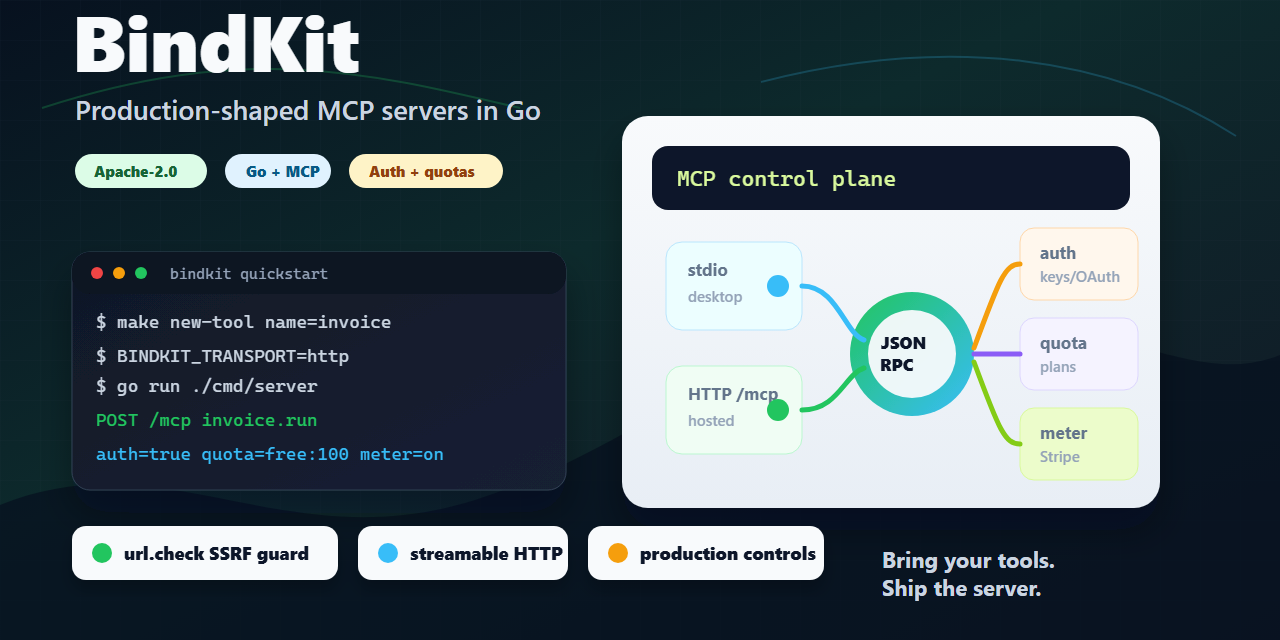
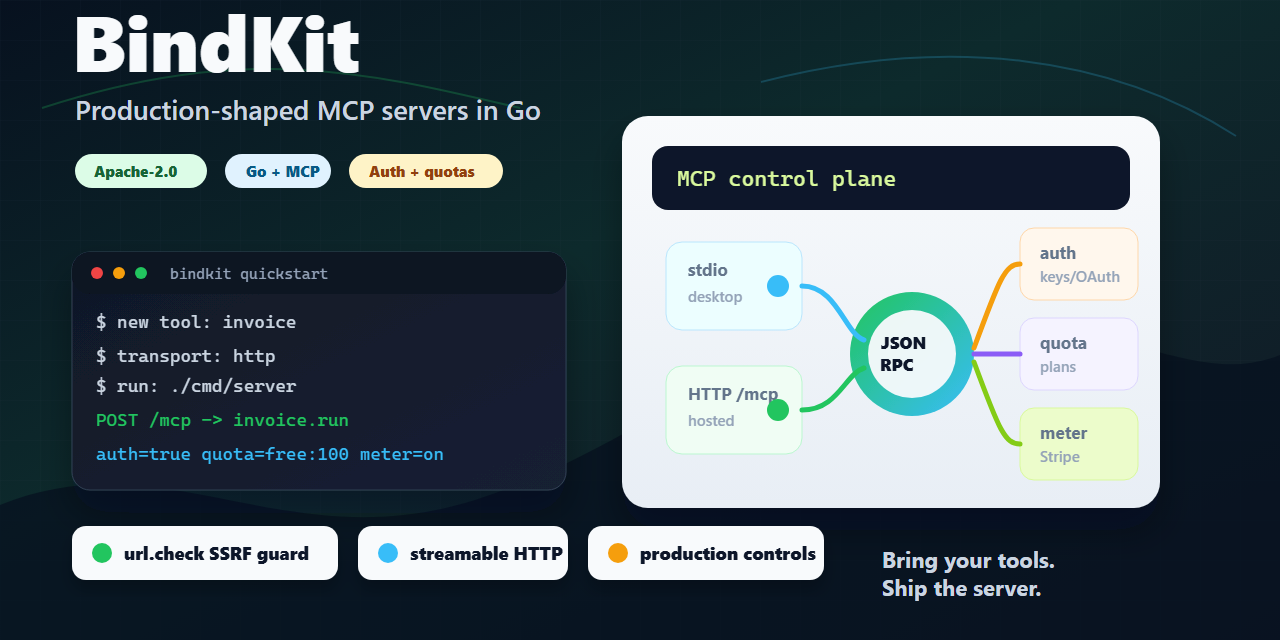
docs: use fixed social preview image

Changed region(s): [[0.0938, 0.5, 0.3125, 0.6875]]

diff --git a/README.md b/README.md
@@ -4,7 +4,7 @@
 [![OpenSSF Scorecard](https://api.scorecard.dev/projects/github.com/bindfort/bindkit/badge)](https://scorecard.dev/viewer/?uri=github.com/bindfort/bindkit)
 [![License](https://img.shields.io/github/license/bindfort/bindkit)](LICENSE)
 
-![BindKit social preview](assets/bindkit-social.svg)
+![BindKit social preview](assets/bindkit-social-preview.png)
 
 **Open-source Go starter kit for production-shaped MCP servers.**
 